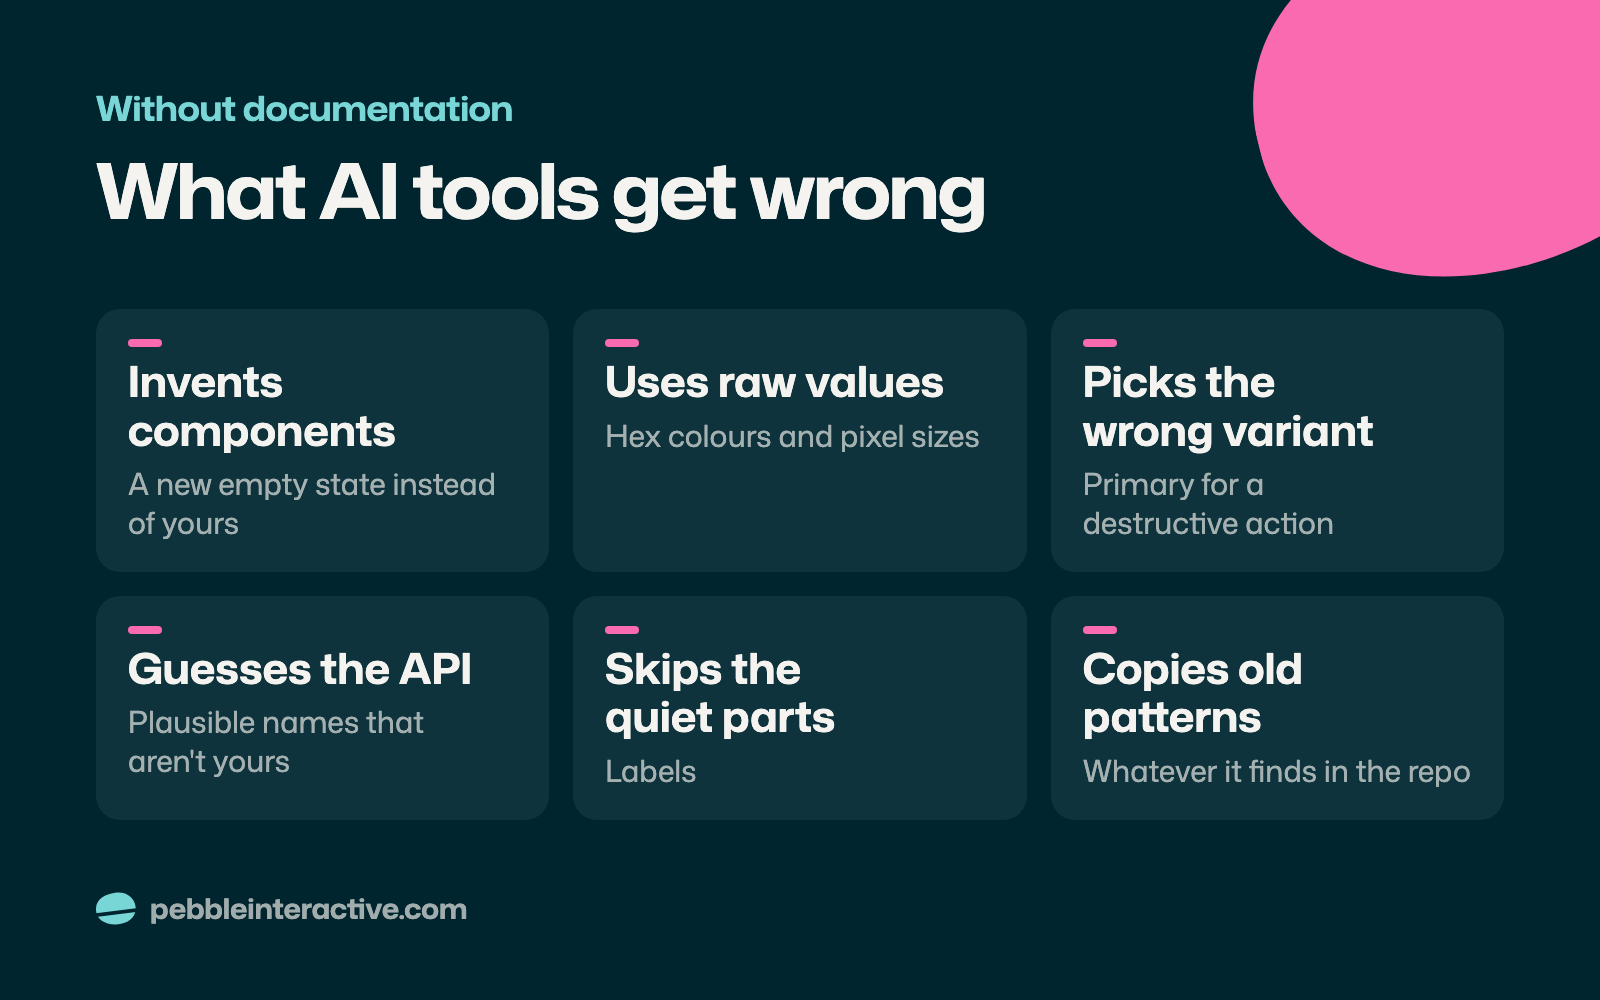
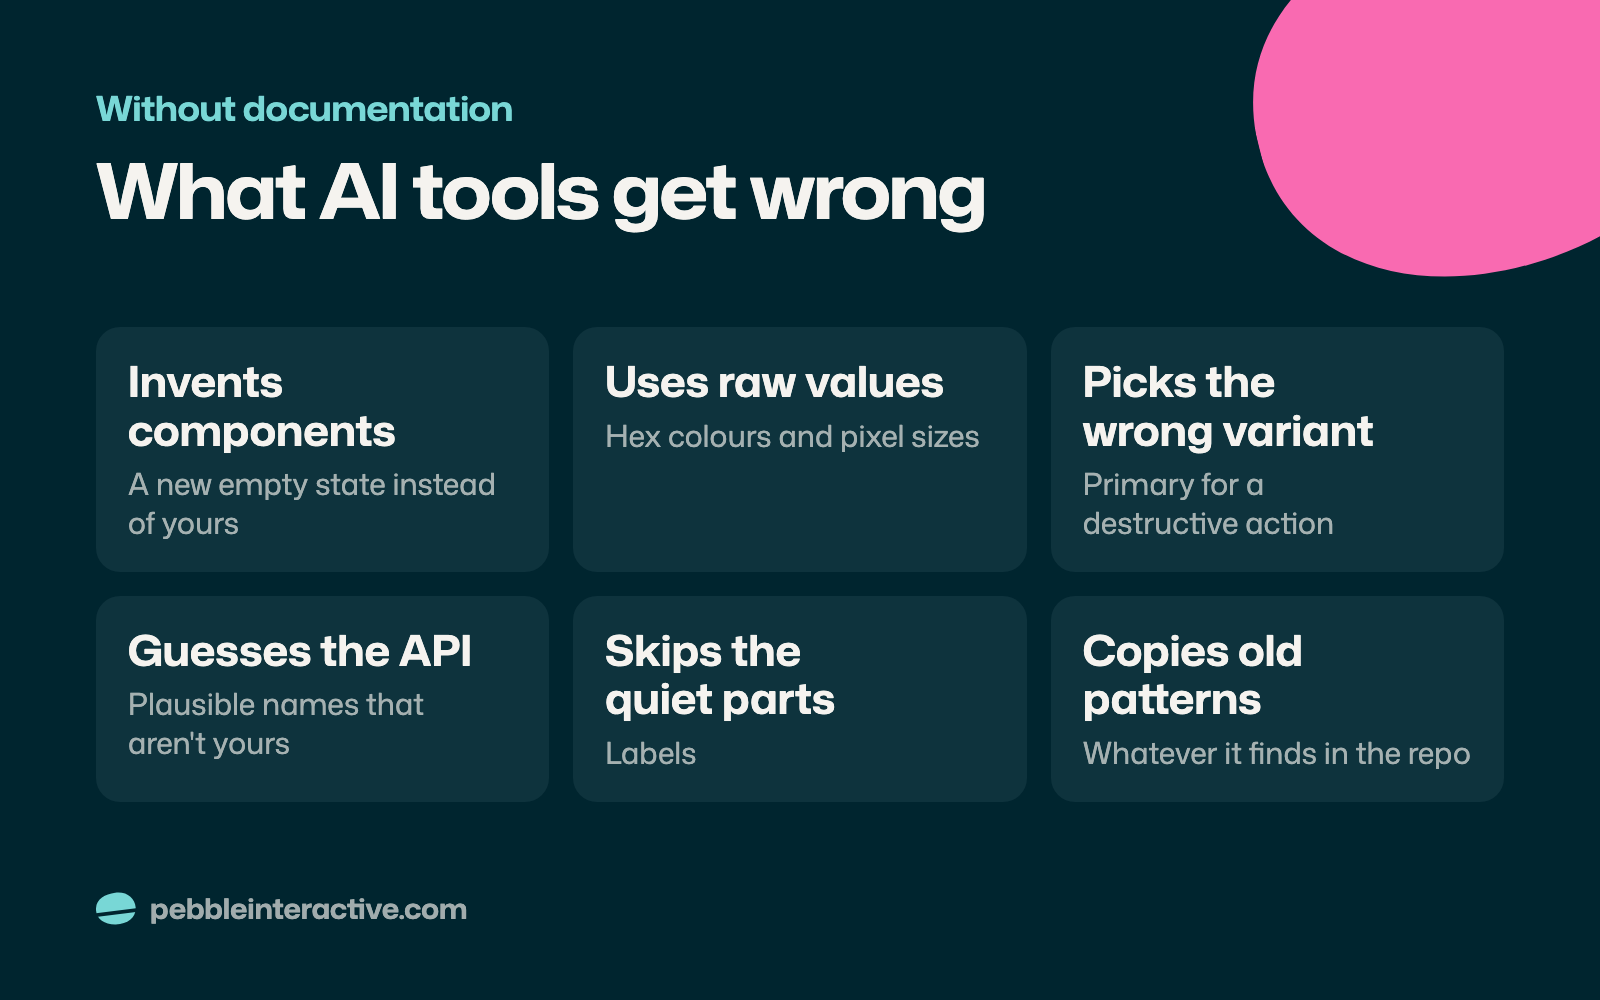
Colourway bands on product pages, white colourway for work, flatter cards
- Product pages: problem, outcomes (pink), why it works (mint), previews
  (white), details; white colourway added to @pebble/brand
- Case studies on the homepage sit on white
- Removed pink dashes from diagram grid cards
- Tighter line height on standfirsts

diff --git a/site/src/styles/global.css b/site/src/styles/global.css
@@ -480,7 +480,7 @@ h1, h2, h3,
 .product-cta-soon { background: oklch(1 0 0 / .12); color: oklch(var(--camel-foreground)) !important; }
 .product-hero-note { font-size: var(--text-sm); opacity: .75; }
 .product-hero-link { font-weight: 600; text-decoration: underline; text-underline-offset: 4px; }
-.product-problem { display: flex; flex-direction: column; gap: 1rem; max-width: 52rem; padding-bottom: 3rem; border-bottom: 1px solid oklch(var(--border)); }
+.product-problem { display: flex; flex-direction: column; gap: 1rem; max-width: 52rem; }
 .product-section { padding: 3rem 0; border-bottom: 1px solid oklch(var(--border)); }
 .product-section:last-child { border-bottom: 0; }
 .product-h2 { margin: 0 0 1.5rem; font-family: var(--font-display); font-size: var(--text-3xl); line-height: 1.15; letter-spacing: -0.02em; }
@@ -528,3 +528,13 @@ h1, h2, h3,
 @media (min-width: 900px) { .home-tools { grid-template-columns: 1.3fr 1fr; gap: 4rem; } }
 .home-tools-image { width: 100%; max-width: 26rem; justify-self: center; border-radius: var(--radius); transform: rotate(3deg); box-shadow: 0 30px 60px oklch(0 0 0 / .4); }
 .home-tools-link { font-weight: 600; color: var(--cw-text); text-decoration: underline; text-underline-offset: 4px; }
+
+/* Product page bands */
+.product-first { padding-top: 0; }
+.product-block + .product-block { margin-top: 3.5rem; }
+.cw-band .product-tick { background: var(--cw-fill); color: var(--cw-fill-text); }
+.cw-band .product-highlight { background: color-mix(in oklch, var(--cw-ground) 70%, white); }
+.cw-mint .product-highlight { background: oklch(0.95 0.035 195); }
+.cw-band .product-highlight p { color: var(--cw-muted); }
+.cw-mint .product-icon { background: var(--pb-navy); color: var(--pb-mint); }
+.cw-white .product-previews img { box-shadow: 0 12px 30px oklch(0.245 0.045 220 / .1); }

diff --git a/brand/dist/tokens.css b/brand/dist/tokens.css
@@ -10,6 +10,7 @@
   --pb-navy: oklch(0.27 0.07 255);
   --pb-pink: oklch(0.72 0.19 352);
   --pb-pink-soft: oklch(0.95 0.04 352);
+  --pb-white: oklch(1 0 0);
   --pb-font: "Mona Sans", system-ui, sans-serif;
   --pb-heading-width: 115;
   --pb-heading-weight: 650;
@@ -55,6 +56,16 @@
   --cw-accent: oklch(0.27 0.07 255);
   --cw-fill: oklch(0.27 0.07 255);
   --cw-fill-text: oklch(0.9 0.065 195);
+  background: var(--cw-ground);
+  color: var(--cw-text);
+}
+.cw-white {
+  --cw-ground: oklch(1 0 0);
+  --cw-text: oklch(0.245 0.045 220);
+  --cw-muted: oklch(0.245 0.045 220 / 0.65);
+  --cw-accent: oklch(0.45 0.095 195);
+  --cw-fill: oklch(0.72 0.19 352);
+  --cw-fill-text: oklch(0.245 0.045 220);
   background: var(--cw-ground);
   color: var(--cw-text);
 }

diff --git a/brand/dist/tokens.js b/brand/dist/tokens.js
@@ -9,7 +9,8 @@ export const color = {
   "mint": "oklch(0.9 0.065 195)",
   "navy": "oklch(0.27 0.07 255)",
   "pink": "oklch(0.72 0.19 352)",
-  "pink-soft": "oklch(0.95 0.04 352)"
+  "pink-soft": "oklch(0.95 0.04 352)",
+  "white": "oklch(1 0 0)"
 };
 export const colourways = {
   "ink": {
@@ -43,6 +44,14 @@ export const colourways = {
     "accent": "oklch(0.27 0.07 255)",
     "fill": "oklch(0.27 0.07 255)",
     "fill-text": "oklch(0.9 0.065 195)"
+  },
+  "white": {
+    "ground": "oklch(1 0 0)",
+    "text": "oklch(0.245 0.045 220)",
+    "muted": "oklch(0.245 0.045 220 / 0.65)",
+    "accent": "oklch(0.45 0.095 195)",
+    "fill": "oklch(0.72 0.19 352)",
+    "fill-text": "oklch(0.245 0.045 220)"
   }
 };
 export const font = {
